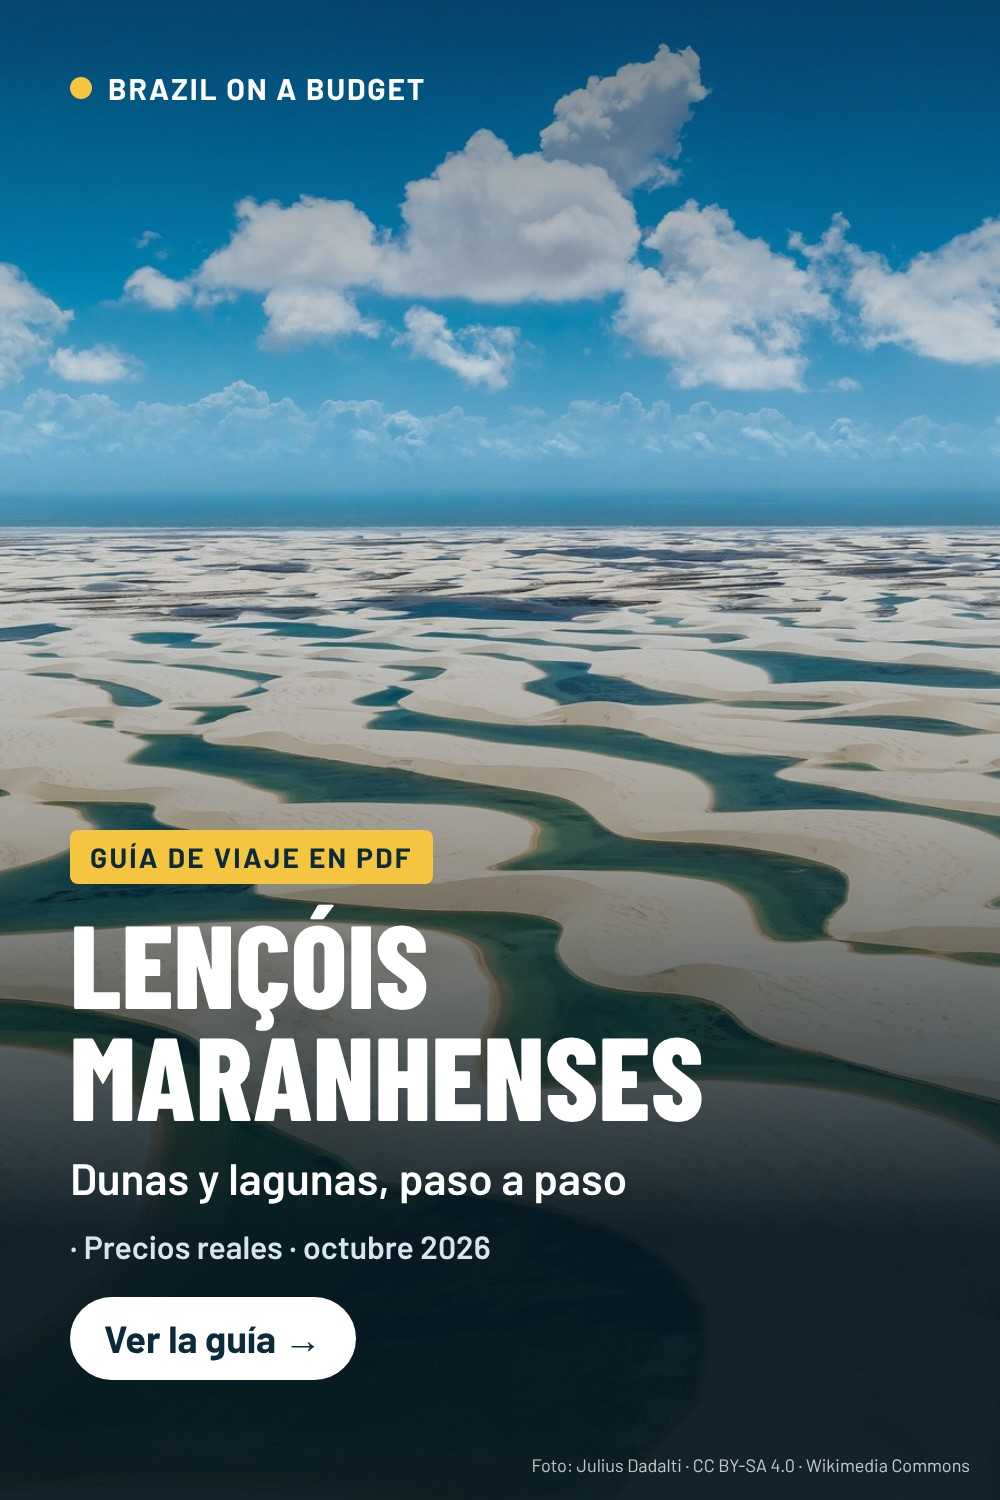
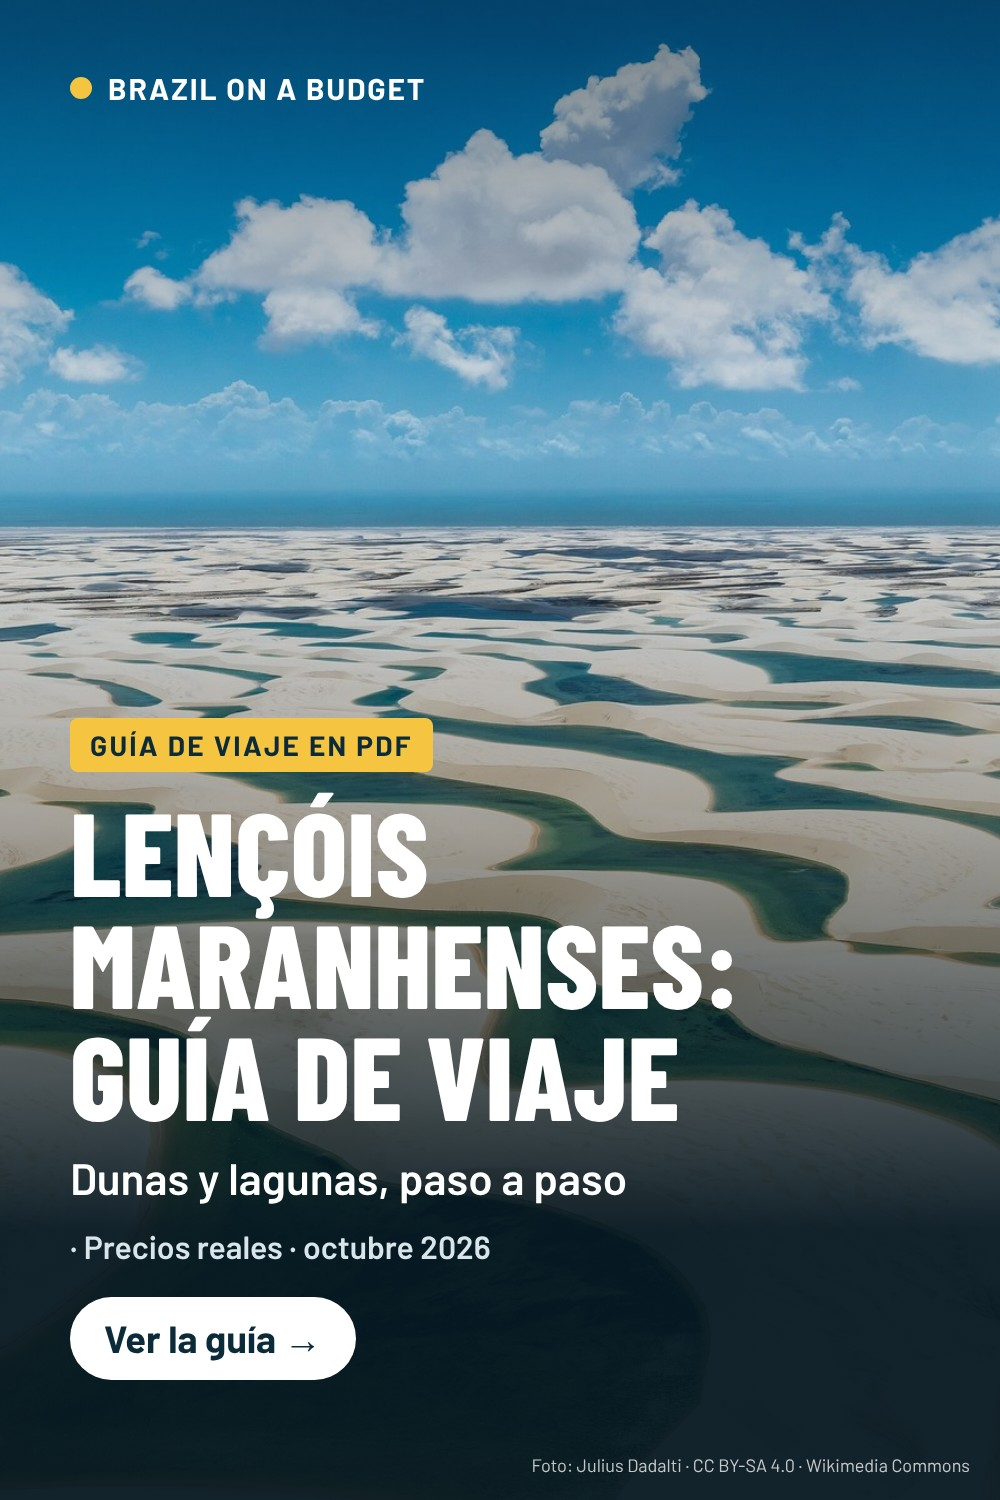
Pinterest: título único para o pin de Lençóis em espanhol (o Pinterest recusa títulos repetidos) (#142)
Claude-Session: https://claude.ai/code/session_01DN6o27r1b386RLXYZkbtFP

Changed region(s): [[0.062, 0.46, 0.744, 0.7667]]

diff --git a/gerador/pinterest.py b/gerador/pinterest.py
@@ -42,7 +42,7 @@ PINS = [
     ("es-salvador", "es", "salvador-pelourinho", "Salvador de Bahía en 4 días", "Pelourinho, playas y precios reales", None, LINKS["salvador"], "Guías de viaje Brasil"),
     ("es-saopaulo", "es", "saopaulo-paulista", "São Paulo en 4 días", "Comida, barrios y precios reales", None, LINKS["sp"], "Guías de viaje Brasil"),
     ("es-paraty", "es", "paraty-ruas", "Paraty en 3 días", "Pueblo colonial, islas y cascadas", None, LINKS["paraty"], "Guías de viaje Brasil"),
-    ("es-lencois", "es", "lencois-dunas", "Lençóis Maranhenses", "Dunas y lagunas, paso a paso", None, LINKS["lencois"], "Guías de viaje Brasil"),
+    ("es-lencois", "es", "lencois-dunas", "Lençóis Maranhenses: guía de viaje", "Dunas y lagunas, paso a paso", None, LINKS["lencois"], "Guías de viaje Brasil"),
     ("es-camboriu", "es", "camboriu-praia", "Camboriú 2026/27", "Playas, teleférico y precios reales", None, LINKS["camboriu"], "Playas de Brasil"),
     ("es-carnaval", "es", "rio-carnaval-sapucai-3", "Carnaval de Río 2027", "Fechas, entradas, blocos y seguridad", None, LINKS["carnaval"], "Viajar a Río de Janeiro"),
     ("es-pack7", "es", "rio-pao-de-acucar", "Brasil: las 7 guías", "Río, Iguazú, Floripa, Salvador y más", None, LINKS["pack7"], "Guías de viaje Brasil"),
